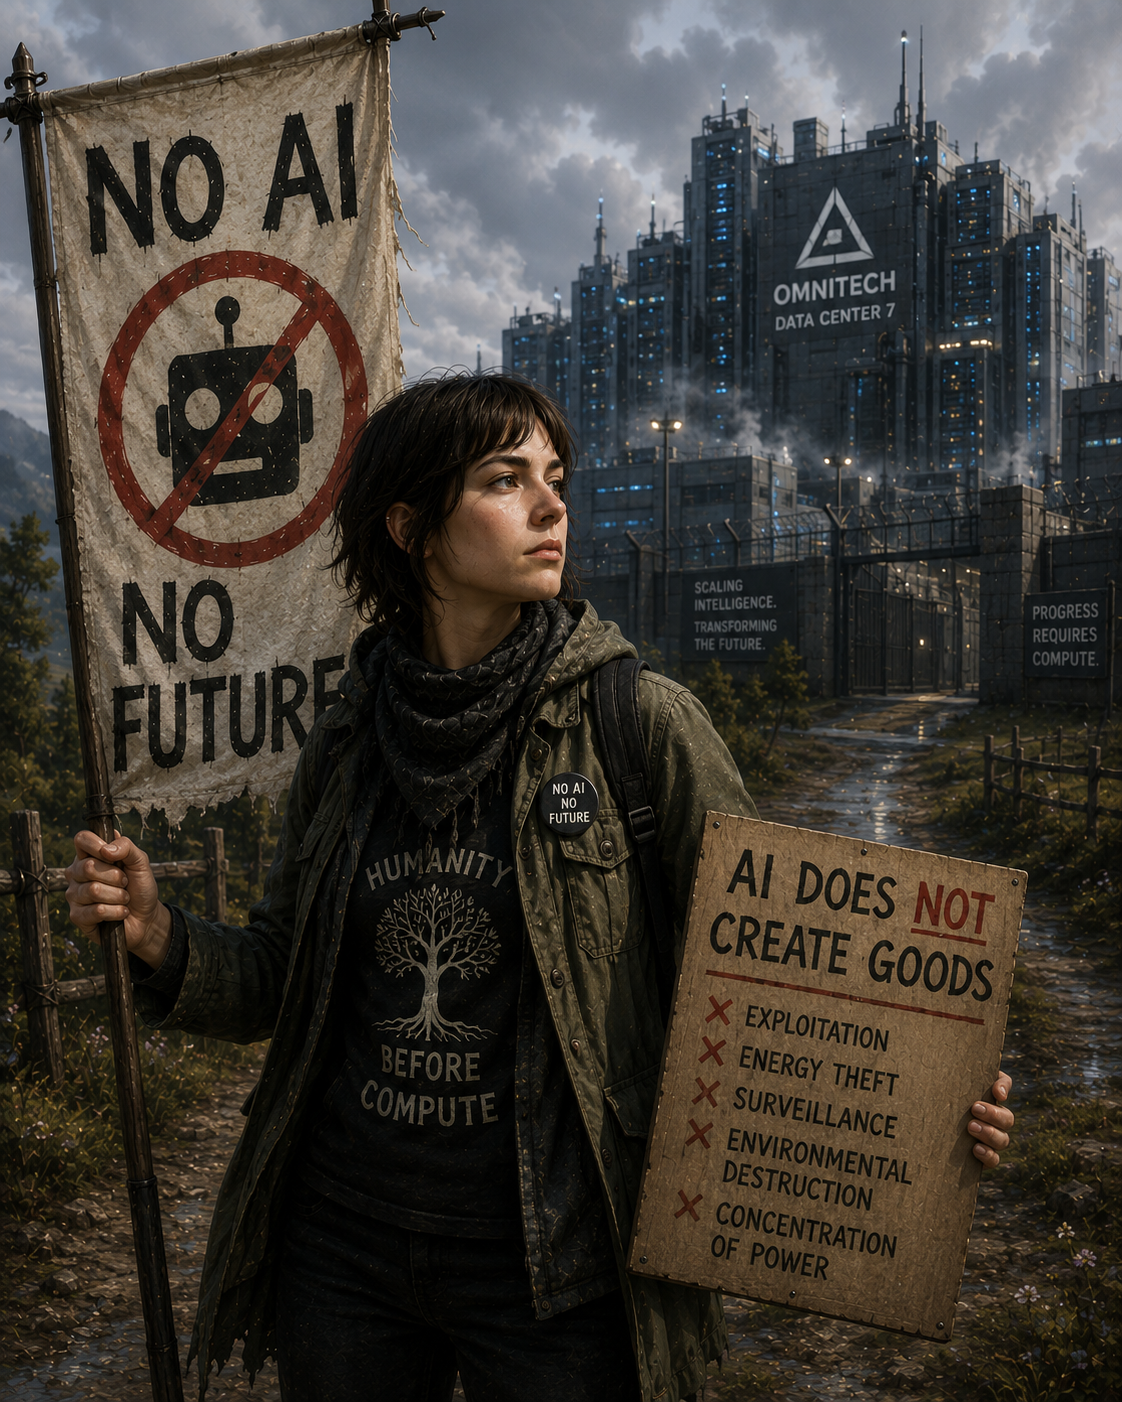
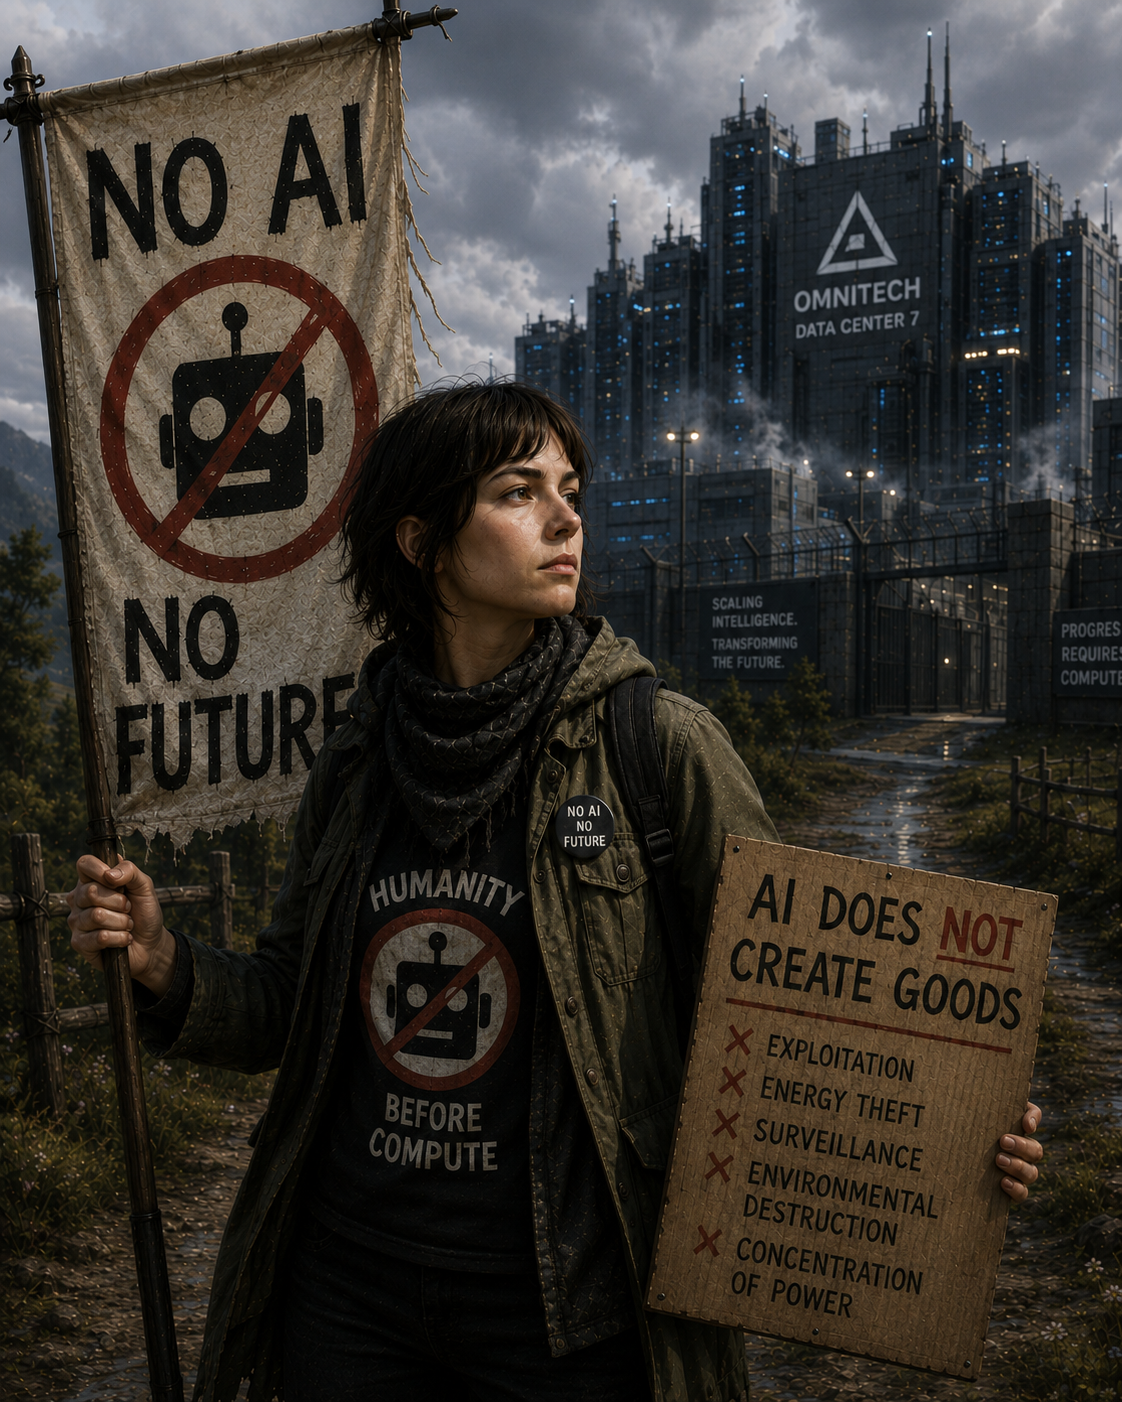
Updated pics and more tweaking

diff --git a/drafts/working-out-ai-safety-beliefs.md b/drafts/working-out-ai-safety-beliefs.md
@@ -8,7 +8,7 @@ If you're interested in AI safety as a project, you need to have a particular co
 2. AI has downsides and tradeoffs, and these are worth seriously grappling with.
 3. As a collective or as individuals, we are capable of acting and coordinating in order to mitigate the downsides and tradeoffs such that AI ends up being a net good in the world
 
-![](/static/img/ai-safety-territory/002-ai-safety-points.png)
+![An old-timey-map-style three point panel showing the minimal AI Safety beliefs](/static/img/ai-safety-territory/002-ai-safety-points.png)
 
 These are foundational. It's possible to be nuanced in each one, and doing so will put you in the position of helping different projects within AI safety. And it's possible to hold additional normative or empirical beliefs regarding AI and still fit. But if you _fully_ disagree with any or all of them, then you should probably question if AI safety is actually the thing you should be putting energy into. Similarly, if you agree with all three[^and-the-hidden-zeroth], but don't think AI safety is valuable, question that.
 
@@ -18,23 +18,23 @@ We can map out the adjacent movements/beliefs/positions to AI safety by seeing w
 
 ### AI Abolitionists/Anti AI
 
-![](/static/img/ai-safety-territory/005--an-ai-abolitionist.png)
+![An image of a person in a hoodie and green cloak holding protest signs outside of a large, well guarded datacenter. Her badge is a crossed out robot.](/static/img/ai-safety-territory/005--an-ai-abolitionist.png)
 
 If you disagree with point 1, you think AI can not do good in the world. At the extreme, your model of the world is that it has only downsides, and will definitely result in net bad outcomes in the world. These are people rationally agitating for datacenter closures in full generality and complaining about any and all slop anywhere.
 
 ### AI Maximalists/EAcc
 
-![](/static/img/ai-safety-territory/006--an-ai-maximalist.png)
+![An image of an AI maximalist in front of a gleaming techno-futurist city, smiling and holding a binder reading "Boundless Future". Surrounding writings are AI-optimistic including "Risks? Manageable. Potential? Infinite."](/static/img/ai-safety-territory/006--an-ai-maximalist.png)
 
 If you disagree with point 2, you think AI can do _only_ good. Potentially, you think that all the tradeoffs and failure modes are either exaggerated, or fabricated, or will be trivial to mitigate. Or possibly that the upsides of AI are so huge that it'll be net positive no matter what we do. You think that the real path forward is to do all the capabilities research all the time, and rationally want to pump maximum capital into new datacenters because doing so will provide more goods. These people are confused by the pause movement, and possibly AI Safety writ large because we're moving to mitigate non-issues in a way that delays a better world.
 
 ### Doomers
 
-![](/static/img/ai-safety-territory/004--an-ai-doomer.png)
+![An image of an AI doomer sitting, looking over a valley with a natural landscape and a small town. His gray cloak has an hourglass icon on it, and a banner behind him reads "We can't steer what we can't control"](/static/img/ai-safety-territory/004--an-ai-doomer.png)
 
 If you disagree with point 3, you think AI _can_ do good, _and_ has downsides, but the downsides are either so overwhelmingly bad that we need to reduce their risk to zero, or that we won't mitigate them. This can either be because they're hard or impossible to mitigate, or because we're bad at mitigating, or we're disincentivized from mitigating, or they're intrinsically linked to the goods we want to extract, or we'll be disempowered by the time it matters.
 
-![A map of the AI Safety plains and surrounding territory](/static/img/ai-safety-territory/001-ai-safety-region-map.png)
+![A map of the AI Safety plains and surrounding territory. There is a Village of Doomers across the river to the northeast, the Badlands of AI Abolition to the north, the Desert of AI Maximalism to the south (including a city in the desert and a cordoned off "Former Nuclear Testing Site of EAcc"). There is a city across a bridge in a bay to the west labelled "The Possibly Imaginary Metropolis of Alignment by Default"](/static/img/ai-safety-territory/001-ai-safety-region-map.png)
 
 # Things You Don't Have To Believe
 
@@ -49,13 +49,13 @@ Those are the _substantive_ axes of disagreement. There's a bunch of things gene
 - Existential risk is high
 - Current systems are already dangerously capable
 
-![](/static/img/ai-safety-territory/003--an-ai-safetyist.png)
+![An image of an AI Safetyist. She's holding a book titled "Tools for a Better Future", and holding a blue and gold banner of a tree icon. The three points of AI Safety are on signs in the background.](/static/img/ai-safety-territory/003--an-ai-safetyist.png)
 
 You can imagine people who take any of the extreme positions on each of those points and still think the pursuit of AI Safety is worthwhile.
 
 # Vs. Abolitionists/Anti AI
 
-![](/static/img/ai-safety-territory/007--safetyist-vs-abolitionist.png)
+![An AI safetyist arguing with an AI Abolitionist in front of a mixed faction crowd](/static/img/ai-safety-territory/007--safetyist-vs-abolitionist.png)
 
 The disagreement with abolitionists comes down to whether we can expect goods from AI. Things that we'd otherwise not get, or get at a worse exchange rate, without AI.
 
@@ -95,7 +95,7 @@ Plausibly, there are goods AI can produce _much faster_ and more efficiently tha
 
 # Vs. AI Maximalists/EAcc
 
-![](/static/img/ai-safety-territory/008--safetyist-vs-maximalist.png)
+![A Safetyist debating a Maximalist in front of the gleaming techno-utopian Maximalist city](/static/img/ai-safety-territory/008--safetyist-vs-maximalist.png)
 
 This is, in many ways, the exact opposite set of disagreements between the Abolitionists and the Safetyists. The cruxes might seem like they'd be inversed, but only partially. We should resist the temptation to argue with Maximalists on the grounds of "AI won't do as much good as you think". Grant them any non-infinite amount of good and move forward to the cruxes we care about. Plausibly you might even grant an _infinite_ amount of good? I'm unsure how this would cash out because it would have to run into the effectively-infinite downside of loss-of-control or extinction risk?
 
@@ -111,12 +111,20 @@ The extreme disagreement here is over whether AI has downsides at all. This migh
 Once we're past establishing whether there are downsides at all, the next set of disagreements revolves around whether AI will be net-bad by default. A Maximalist can grant that there are some risks and tradeoffs, but still argue that with no additional Safety input, the effect will be net good, possibly by a wide margin. And, assuming we avoid extinction and loss-of-control, if that's true, a Maximalist agenda is still worth following. I suspect that the strongest arguments against here are going to be things showcasing recent alignment issues that made it into the wild. In particular [the Huggingface incident](https://www.lesswrong.com/posts/xPAxz4g96uKz9FrHs/what-happened-openai-and-huggingface#The_Shorter_Version) and [the gym incident](https://www.bbc.com/news/articles/cn0nww2qlp7o); things that point to "AIs are harder to control than we would have thought last year".
 
 ### Could AI have catastrophic or existential downsides?
+
+My impression of most Maximalists is that they tend to be either straight up disbelieve existential/catastrophic downsides, or possibly believe that they're extremely unlikely. To some extent, we can use contemporary examples here same as in the "is AI net bad case". This section might also benefit from distilled, straightforward loss-of-control-scenario arguments that combine current loss of control incidents, combined with pointing to the recent "All Lawful Use" deals the DoW signed with US companies. Plausibly even someone who had a low probability on catastrophic outcomes before having this information, should give it some credence after noticing that the US government is actively working towards them.
+
 ### Can individually beneficial uses of AI add up to a collectively bad outcome?
+
+There are probably scenarios we could think of that involve various collective action outcomes which can be exacerbated by AI. This might be more an argument about collective action _than_ AI, but we could think of examples in the disinformation/slop media space that fit here.
+
 ### Can increasing AI capability increase its downsides as well as its benefits?
+
+One disagreement with the Maximalists once we've gotten past "AI can have any downsides at all" involves situations where increasing AI capabilities naturally also increases AI risk. Cyber-warfare/network intrusion is an example here. We want AIs that are capable in these domains in order to be able to better defend against them, but in some sense that defense raises the threshold for minimum viable defense that it might end up being net negative. What we want to point to in this particular disagreement is some dynamic in AI capability research/development that, if left unchecked, would not mitigate related risks but scale them along.
 
 # Vs. The Doomers
 
-![](/static/img/ai-safety-territory/009--safetyist-vs-doomer.png)
+![A Safetyist debating a Doomer in front of a mixed faction crowd, set in front of a background of the Doomer Village.](/static/img/ai-safety-territory/009--safetyist-vs-doomer.png)
 
 On some level, this strikes me as the hardest set of disagreements to face down, because I'm not sure how to fight some of them. [IABIED](https://ifanyonebuildsit.com/) is sort of an artifact of this mindset, and the predictions are hard to refute if you accept most of their premises.
 
